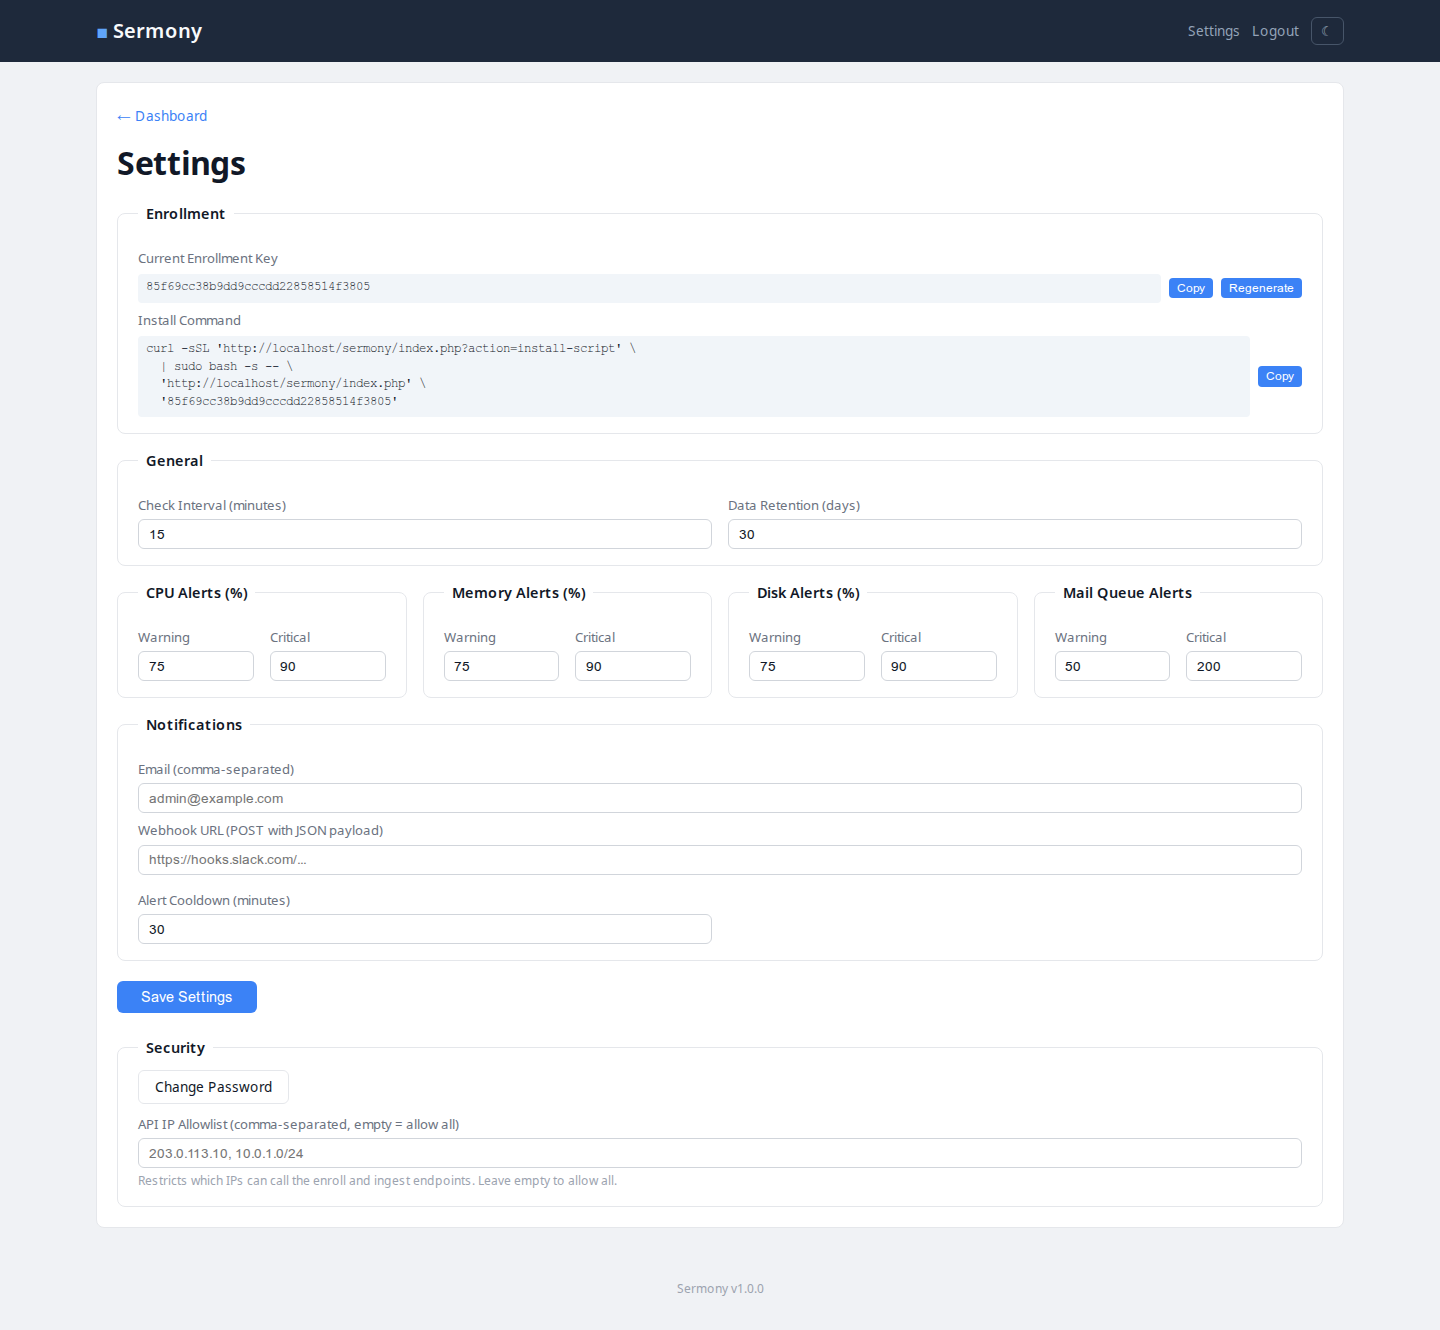
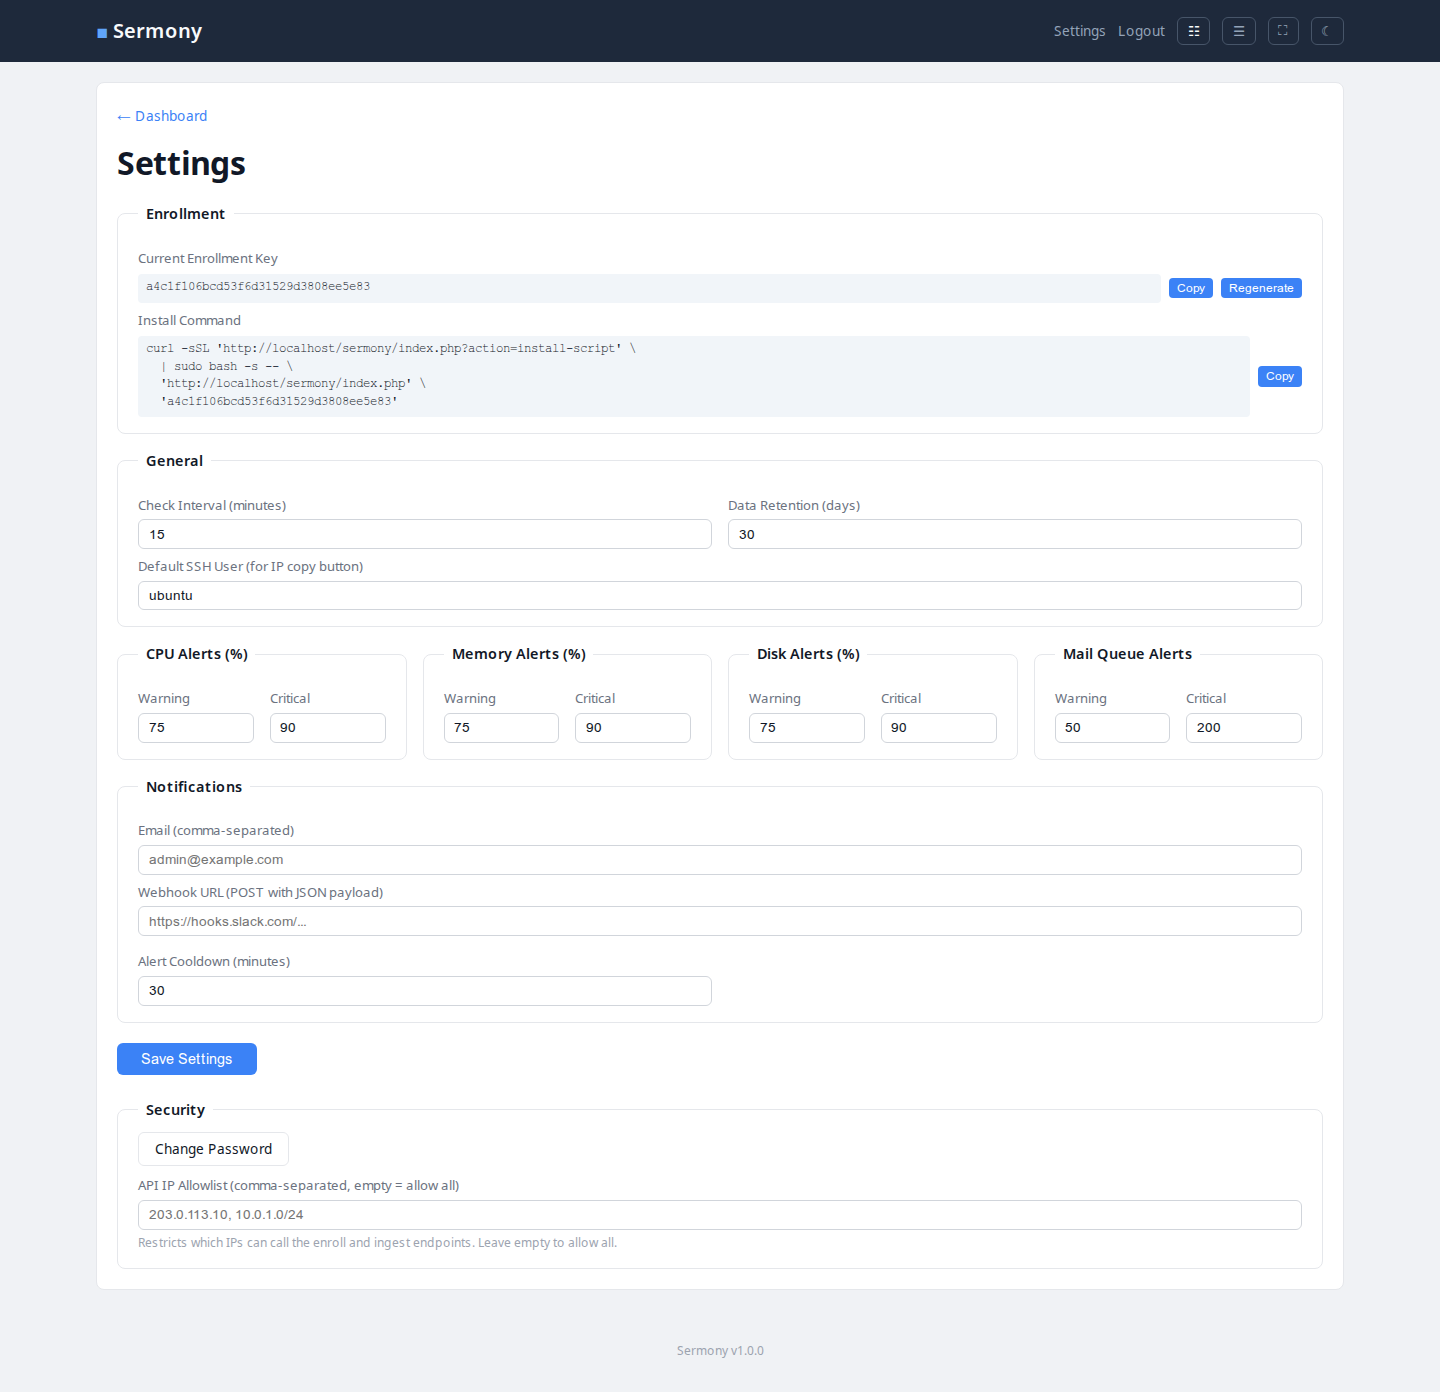
Update fake data generator, screenshots, and README
- fake-agents.sh now generates system_info with CPU model/cores,
  RAM, disk total, OS, Docker containers, services, and NIC details
- New datagrid screenshot showing sortable columns
- Updated server detail screenshot with system info, NICs, Docker,
  services, and sparkline charts
- README features list updated with all current capabilities

diff --git a/README.md b/README.md
@@ -15,7 +15,10 @@ This is a **pet project** — built for personal use to monitor Ubuntu servers. 
 ### Dashboard (dark)
 ![Dashboard Dark](screenshots/dashboard-dark.png)
 
-### Server Detail
+### Datagrid View (sortable by CPU, RAM, disk, cores, load)
+![Datagrid](screenshots/datagrid.png)
+
+### Server Detail (system info, NICs, Docker, services, sparklines)
 ![Server Detail](screenshots/server-detail.png)
 
 ### Settings
@@ -69,19 +72,28 @@ That's it. Servers appear on the dashboard automatically.
 ## Features
 
 - Password-protected dashboard with session-based auth
+- Three view modes: card grid, compact list, sortable datagrid
+- Datagrid with sortable columns: name, CPU cores, CPU%, RAM, Mem%, disk total, Disk%, IOPS, load
+- Fullscreen mode for wide monitors
+- Search/filter servers by name, IP, or FQDN
+- Clickable status pills to filter by: online, offline, critical, warning, stale
 - Dark/light theme (follows OS preference, manual toggle)
 - Sparkline charts on server detail page (CPU/memory/disk trends)
+- System info: CPU model/cores, RAM, disk, OS, kernel, uptime, network interfaces, DNS, Docker, services
+- Per-interface details: name, state (UP/DOWN), IP, MAC, link speed
+- Docker container listing with image, status, and ports
+- Active service detection (mysql, postgresql, nginx, postfix, redis, etc.)
 - Auto-refresh dashboard without full page reload
 - Browser notifications when servers go critical/offline/recover
 - Drag-and-drop card reordering (persisted)
 - Auto-sort by severity: critical > warning > stale > offline > healthy
-- Stale detection — servers that miss expected check-ins get flagged before going offline
+- Stale detection — servers that miss expected check-ins get flagged
 - Per-server configurable check intervals and alert thresholds (agents auto-update their cron)
-- Configurable alert thresholds (CPU, memory, disk, mail queue)
 - Email and webhook notifications with configurable cooldown
 - Status badges: CRITICAL, WARNING, STALE, OFFLINE
-- Custom display names per server (hostname shown in detail metadata)
-- Custom notes per server
+- Custom display names and notes per server (notes shown as tooltip on hover)
+- One-click IP copy with configurable SSH username (copies `user@ip`)
+- Server timezone display on dashboard cards
 - Export metrics as CSV
 - Server detail page with metrics history (responsive on mobile)
 - Enrollment key rotation with old key management
